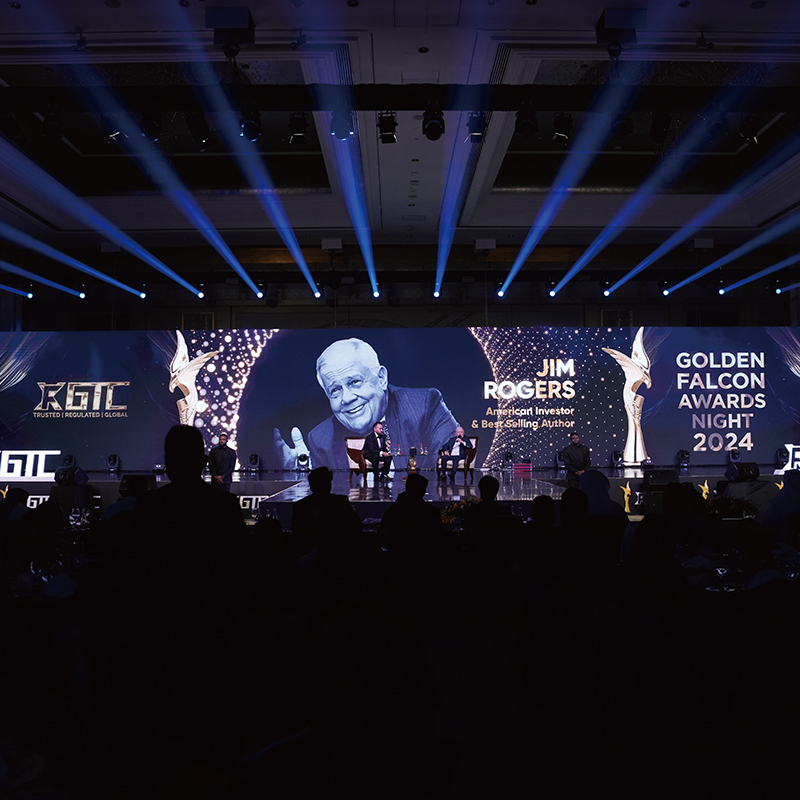
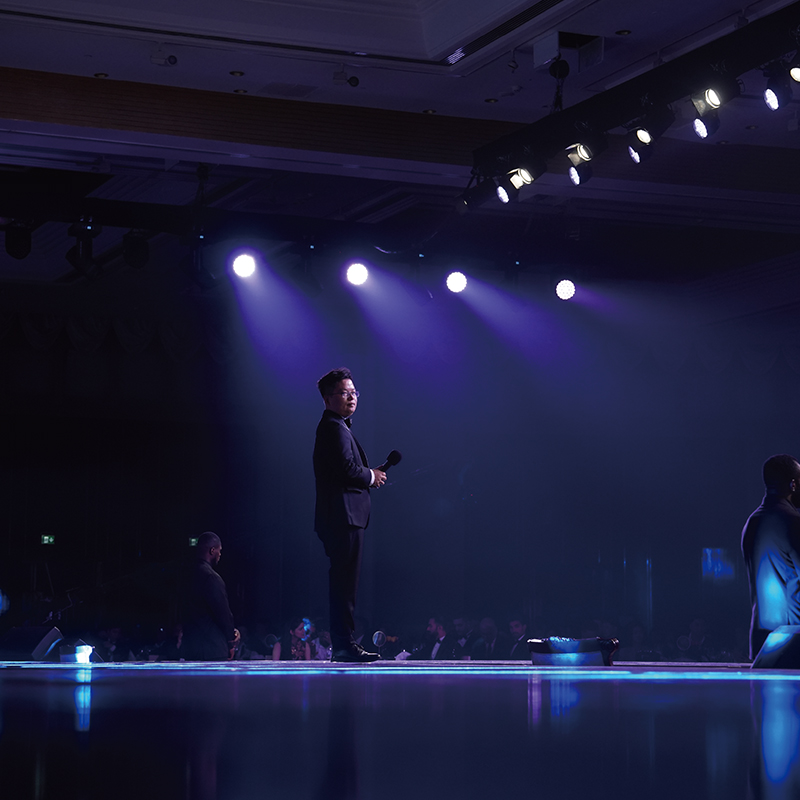
Update Chinese site copy, gallery layouts, and VIP result page UX.
Refresh 金鹰节 messaging across home, gallery, and footer, add FAQ check-status links, improve gallery hero/masonry presentation, and simplify the VIP qualification journey tabs.

diff --git a/src/components/gallery/GalleryAmbitionSection.tsx b/src/components/gallery/GalleryAmbitionSection.tsx
@@ -6,41 +6,31 @@ export default function GalleryAmbitionSection() {
 
   return (
     <section className="relative bg-[#F7F2E8] py-8 md:py-16">
-      <div className="pointer-events-none w-2/5 right-0 top-2 h-[180px] absolute " aria-hidden>
-        <Image
-          src="/images/logo-yellow.svg"
-          alt=""
-          fill
-          priority
-          className="object-cover object-center"
-          sizes="100vw"
-        />
-      </div>
+ 
 
       <div className="container">
-        <p className="eyebrow mb-4 text-[#382910] !capitalize">
-          <span className=" font-poppins ">{t("eyebrow")}</span>
-        </p>
-        <div className="grid gap-8 md:grid-cols-2 md:items-start md:gap-16">
-          <h2 className="font-display HeadingH1 !font-medium !text-ink">
+      
+        <div className="grid gap-8 md:grid-cols-12 md:items-center md:gap-16">
+          <h2 className="col-span-12 font-display HeadingH2 !font-medium !text-ink md:col-span-3">
             {t("headingPlain")}
             <br />
             <span className="italic text-falcon-deep">{t("headingItalic")}</span>
           </h2>
-          <div className="space-y-4">
+          <div className="col-span-12 space-y-4 md:col-span-9">
             <p className="Text !leading-snug !font-poppins !text-ink">{t("paragraph1")}</p>
             <p className="Text !leading-snug !font-poppins !text-ink">{t("paragraph2")}</p>
           </div>
         </div>
 
-        <div className="relative mt-10 aspect-[16/6] overflow-hidden md:mt-14">
-          <Image
-            src="/images/gallery-section2.svg"
-            alt=""
-            fill
-            className="object-cover object-center"
-            sizes="(max-width: 1280px) 100vw, 1280px"
-          />
+        <div className="mt-10 md:mt-14">
+          <div className="relative w-full h-[400px] md:h-[700px] overflow-hidden">
+            <Image
+              src="/gallery/banner-new.png"
+              alt=""
+              fill
+              className="object-contain"
+            />
+          </div>
         </div>
       </div>
     </section>

diff --git a/src/app/api/otp-smtp/templates.ts b/src/app/api/otp-smtp/templates.ts
@@ -33,6 +33,7 @@ const DEFAULT_TERMS_LINK = "https://www.goldenfalcon.com/policy";
 const DEFAULT_STATUS_SITE = "https://www.goldenfalcon.com";
 const EN_EVENT_NAME = "Golden Falcon Awards 2026";
 const ZH_EVENT_NAME = "金鹰节 2026";
+const ZH_OTP_LABEL = "OTP/验证码:";
 
 function normalizeLocale(locale?: string): EmailLocale {
   const normalized = locale?.trim().toLowerCase() ?? "";
@@ -272,7 +273,7 @@ function buildWelcomeOtpBody(vars: EmailTemplateVars, locale: EmailLocale) {
     <p style="margin:0 0 20px;padding:0;">
       请查收以下个人信息以开始注册：
     </p>
-    <p style="margin:0 0 20px;padding:0;"><strong style="font-weight:700;">OTP：</strong> ${otp}</p>
+    <p style="margin:0 0 20px;padding:0;"><strong style="font-weight:700;">${ZH_OTP_LABEL}</strong> ${otp}</p>
     <p style="margin:0 0 20px;padding:0;"><strong style="font-weight:700;">IB ID / 推荐码：</strong> ${ibId}</p>
     <p style="margin:0 0 20px;padding:0;">
       请妥善保管这些信息，用于完成活动注册。您的 ${ZH_EVENT_NAME} 之旅由此开启。
@@ -501,7 +502,7 @@ const EMAIL_META: Record<
       pageTitle: `${ZH_EVENT_NAME} - OTP 和 IB 详情`,
       eyebrow: "诚挚邀请",
       plainText: ({ otp = "XXXXX", ibId = "XXXXX" }) =>
-        `欢迎加入${ZH_EVENT_NAME}。OTP：${otp}。IB ID / 推荐码：${ibId}。`,
+        `欢迎加入${ZH_EVENT_NAME}。${ZH_OTP_LABEL} ${otp}。IB ID / 推荐码：${ibId}。`,
     },
     registration_started: {
       subject: `感谢您加入${ZH_EVENT_NAME} – 注册已开始`,

diff --git a/src/components/home/FaqSection.tsx b/src/components/home/FaqSection.tsx
@@ -4,6 +4,30 @@ import { useState } from "react";
 import { useTranslations } from "next-intl";
 import Button from "@/components/Button";
 
+const FAQ_CHECK_STATUS_URL = "https://goldenfalcon.gtcch.com/check-status";
+const FAQ_LINK_PHRASES = ["在线注册", "our Tickets page"] as const;
+const linkClassName =
+  "font-medium text-falcon-deep underline decoration-falcon-deep/40 underline-offset-2 transition-colors hover:text-falcon-deep/80";
+
+function renderFaqAnswer(answer: string) {
+  const linkPhrase = FAQ_LINK_PHRASES.find((phrase) => answer.includes(phrase));
+  if (!linkPhrase) {
+    return answer;
+  }
+
+  const [before, after] = answer.split(linkPhrase);
+
+  return (
+    <>
+      {before}
+      <a href={FAQ_CHECK_STATUS_URL} className={linkClassName}>
+        {linkPhrase}
+      </a>
+      {after}
+    </>
+  );
+}
+
 export default function FaqSection() {
   const t = useTranslations("home.faq");
   const faqs = t.raw("list") as { question: string; answer: string }[];
@@ -40,7 +64,9 @@ export default function FaqSection() {
                   </span>
                 </button>
                 {isOpen && (
-                  <p className="pb-5 TextSmall !leading-snug !font-poppins !text-ink">{faq.answer}</p>
+                  <p className="pb-5 TextSmall !leading-snug !font-poppins !text-ink">
+                    {renderFaqAnswer(faq.answer)}
+                  </p>
                 )}
               </div>
             );

diff --git a/src/components/gallery/GalleryHero.tsx b/src/components/gallery/GalleryHero.tsx
@@ -4,10 +4,14 @@ export default function GalleryHero() {
   const t = useTranslations("gallery.hero");
 
   return (
-    <section className="relative flex min-h-[50vh] items-end overflow-hidden bg-[url('/gallery.jpg')] bg-cover bg-center pb-16 pt-16 md:min-h-[80vh] md:pb-36 md:pt-24">
-      <div className="container">
-        <div className="max-w-2xl">
-          <h1 className="max-w-sm font-display text-[3.2rem] uppercase leading-[1.05] text-white md:text-[3rem]">
+    <section className="relative flex min-h-[50vh] items-end overflow-hidden bg-[url('/55.webp')] bg-cover bg-center pb-16 pt-16 md:min-h-[80vh] md:pb-36 md:pt-24">
+      <div
+        className="pointer-events-none absolute inset-0 bg-gradient-to-t from-black/85 via-black/40 to-black/10"
+        aria-hidden
+      />
+      <div className="container relative z-[1]">
+        <div className="max-w-3xl">
+          <h1 className="max-w-xl font-display text-[3.2rem] uppercase leading-[1.05] text-white md:text-[3rem]">
             {t("headingPlain")}
           
             <span className="italic text-falcon-light"> {t("headingItalic")}</span>

diff --git a/src/components/vip/VipInvitationSection.tsx b/src/components/vip/VipInvitationSection.tsx
@@ -23,17 +23,14 @@ export default function VipInvitationSection() {
       {/* <div className="absolute inset-0 -z-10 bg-gradient-to-r from-[#F6E8CC]/95 via-[#EACF9A]/80 to-[#D5A75C]/55" /> */}
 
       <div className="container">
-        <div className="max-w-xl">
-          <p className="eyebrow !capitalize text-[#382910]">
-            <span className="font-poppins">{t("invitationEyebrow")}</span>
-          </p>
-          <h2 className="mt-3 font-display HeadingH1 !font-medium !text-[#382910]">
+        <div className="w-full">
+          <h2 className="mt-3 w-full font-display HeadingH1 !font-medium !text-[#382910] md:whitespace-nowrap">
             {t("invitationHeadingPlain")}{" "}
             <span className="italic text-falcon-deep">
               {t("invitationHeadingItalic")}
             </span>
           </h2>
-          <p className="mt-6  Text !leading-snug !font-poppins !text-[#382910]">
+          <p className="mt-6 w-full Text !leading-snug !font-poppins !text-[#382910] md:whitespace-nowrap">
             {t("invitationSubtext")}
           </p>
         </div>

diff --git a/src/components/gallery/GalleryMomentsSection.tsx b/src/components/gallery/GalleryMomentsSection.tsx
@@ -7,15 +7,15 @@ export default function GalleryMomentsSection() {
   return (
     <section className="bg-[#F9F7F2] py-10 md:py-16">
       <div className="container">
-        <p className="eyebrow mb-3 text-[#382910] !capitalize">
-          <span className="font-poppins">{t("eyebrow")}</span>
-        </p>
-        <div className="grid gap-6 md:grid-cols-[1fr_0.85fr] md:items-end md:gap-12">
-          <h2 className="max-w-sm font-display HeadingH1 !font-medium !text-ink">
+       
+        <div className="grid gap-6 md:grid-cols-12 md:items-center md:gap-12">
+          <h2 className="col-span-12 font-display HeadingH2 !font-medium !text-ink md:col-span-5">
             {t("headingPlain")}{" "}
             <span className="italic text-falcon-deep">{t("headingItalic")}</span>
           </h2>
-          <p className="Text !font-poppins !leading-snug !text-ink">{t("subtext")}</p>
+          <p className="col-span-12 Text !font-poppins !leading-snug !text-ink md:col-span-7">
+            {t("subtext")}
+          </p>
         </div>
 
         <GalleryMasonryGrid />

diff --git a/src/components/home/TicketCtaSection.tsx b/src/components/home/TicketCtaSection.tsx
@@ -29,10 +29,16 @@ export default function TicketCtaSection() {
           <p className="eyebrow text-falcon-light !capitalize">
             <span className="font-poppins">{t("eyebrow")}</span>
           </p>
-          <h2 className="mt-6 font-display max-w-sm HeadingH1 !font-medium !text-white">
-            {t("headingPlain")} <span className="italic text-falcon-light">{t("headingItalic")}</span>
+          <h2 className="mt-6 font-display max-w-sm HeadingH2 !font-medium !text-white">
+            {t("headingPlain")}
+            {t("headingItalic") ? (
+              <>
+                {" "}
+                <span className="italic text-falcon-light">{t("headingItalic")}</span>
+              </>
+            ) : null}
           </h2>
-          <p className="mx-auto mt-5 max-w-2xl Text !leading-snug !font-poppins !text-white">
+          <p className="mx-auto mt-5 max-w-2xl whitespace-pre-line Text !leading-snug !font-poppins !text-white">
             {t("description")}
           </p>
           <Button href="/check-status" variant="light" className="mt-9">

diff --git a/src/components/SiteFooter.tsx b/src/components/SiteFooter.tsx
@@ -45,9 +45,9 @@ export default function SiteFooter() {
         />
       </div>
       <div className="relative z-10 container text-left">
-        <p className="eyebrow text-[#382910] !capitalize"><span >{t("eyebrow")}</span></p>
+   
         <h2 className="mt-3 max-w-lg font-display HeadingH1 !font-medium !text-ink">
-          {t("headingPlain")} <span className="italic text-falcon-deep">{t("headingItalic")}</span>
+          {t("headingPlain")}<span className="italic text-falcon-deep">{t("headingItalic")}</span>
         </h2>
         <p className=" mt-6 max-w-lg Text !leading-snug !font-poppins !text-ink">{t("subtext")}</p>
         <Button href="/check-status" className="mt-10">

diff --git a/src/components/home/Hero.tsx b/src/components/home/Hero.tsx
@@ -49,7 +49,7 @@ export default function Hero() {
 
           {isZh ? (
             <>
-              <h1 className="max-w-[720px] font-display text-[2.75rem] font-medium leading-[1.12] tracking-[0.02em] text-ink md:text-[4.5rem] lg:text-[5rem]">
+              <h1 className="max-w-[720px] font-display text-[2.75rem] font-medium leading-[1.12] tracking-[0.02em] text-ink md:text-[4rem] lg:text-[4.5rem]">
                 <span className="text-falcon-deep">{t("titleLine1")}</span>
                 {t("titleLine2") ? <span>{t("titleLine2")}</span> : null}
                 {t("titleLine3") ? <span>{t("titleLine3")}</span> : null}

diff --git a/src/components/home/MediaPartnersSection.tsx b/src/components/home/MediaPartnersSection.tsx
@@ -31,11 +31,9 @@ export default function MediaPartnersSection() {
       }}
     >
       <div className="container">
-        <p className="eyebrow text-falcon-deep !capitalize">
-          <span className="font-poppins">{t("eyebrow")}</span>
-        </p>
+      
         <h2 className="mt-3 font-display HeadingH1 !font-medium !text-ink">{t("heading")}</h2>
-        <p className="mt-3 max-w-2xl Text !leading-snug !font-poppins !text-ink">{t("subtext")}</p>
+       
 
         <div className="relative mt-6 aspect-video overflow-hidden rounded-lg md:mt-8">
           <iframe

diff --git a/src/components/gallery/GalleryMasonryGrid.tsx b/src/components/gallery/GalleryMasonryGrid.tsx
@@ -4,7 +4,7 @@ import { useCallback, useEffect, useState } from "react";
 import Image from "next/image";
 import { useTranslations } from "next-intl";
 
-const GALLERY_IMAGES = Array.from({ length: 16 }, (_, index) => ({
+const GALLERY_IMAGES = Array.from({ length: 15 }, (_, index) => ({
   id: index + 1,
   src: `/gallery/img${index + 1}.jpg`,
 }));
@@ -23,7 +23,6 @@ const MASONRY_LAYOUT = [
   { cols: 1, rows: 2 },
   { cols: 1, rows: 1 },
   { cols: 1, rows: 1 },
-  { cols: 2, rows: 1 },
   { cols: 1, rows: 1 },
   { cols: 1, rows: 1 },
 ] as const;

diff --git a/src/components/gallery/GalleryRecognitionSection.tsx b/src/components/gallery/GalleryRecognitionSection.tsx
@@ -12,12 +12,7 @@ export default function GalleryRecognitionSection() {
             {t("headingPlain")}{" "}
             <span className="italic text-falcon-deep">{t("headingItalic")}</span>
           </h2>
-          <span
-            aria-hidden
-            className="hidden font-display HeadingH2 leading-none text-[#382910] md:block"
-          >
-            {t("watermark")}
-          </span>
+     
         </div>
 
         <div className="mt-6 md:mt-10 grid grid-cols-1 border-s border-t border-[#434343]/25 sm:grid-cols-2 md:grid-cols-4">
